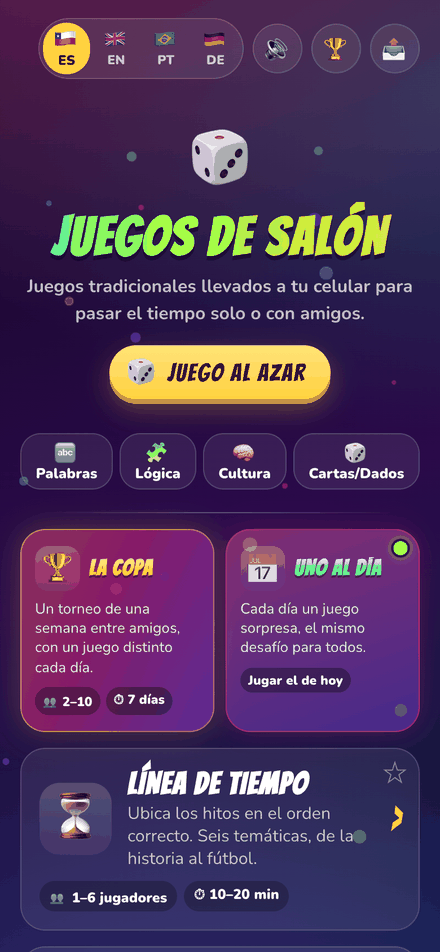
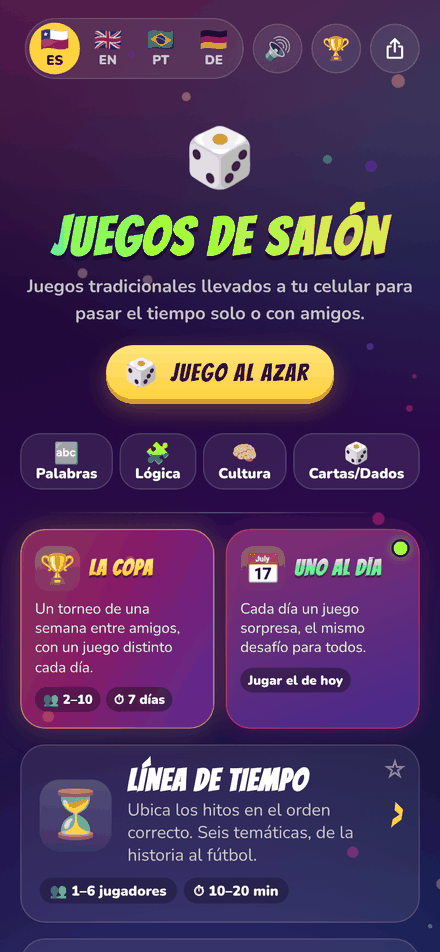
El botón de compartir de la portada usa el ícono de los sistemas operativos (D-242)
El 📤 de la barra de arriba pasa a ser un SVG: una caja abierta con una
flecha hacia arriba, del color del texto. El ✅ al copiar no cambia.

Claude-Session: https://claude.ai/code/session_016Wu82xwHRsD5DmT6RXtR3u

diff --git a/public/assets/js/ui.js b/public/assets/js/ui.js
@@ -117,21 +117,28 @@ export function confetti({ duration = 2500, count = 160 } = {}) {
 export { canShare, shareLink };
 
 /**
- * Botón redondo de la barra de arriba para compartir un link (📤). Donde hay diálogo nativo
+ * El ícono de compartir de los sistemas operativos (una caja abierta con una flecha hacia arriba),
+ * dibujado en SVG con el color del texto: un emoji se ve distinto en cada celular (D-242).
+ */
+const ICONO_COMPARTIR = '<svg class="icon-share" viewBox="0 0 24 24" width="22" height="22" fill="none" stroke="currentColor" stroke-width="2" stroke-linecap="round" stroke-linejoin="round" aria-hidden="true"><path d="M12 3v12"/><path d="M8 7l4-4 4 4"/><path d="M8 10H6a1 1 0 0 0-1 1v9a1 1 0 0 0 1 1h12a1 1 0 0 0 1-1v-9a1 1 0 0 0-1-1h-2"/></svg>';
+
+/**
+ * Botón redondo de la barra de arriba para compartir un link. Donde hay diálogo nativo
  * abre el del sistema; donde no, copia y lo avisa cambiando el ícono por un ✅ dos segundos,
  * que se entiende sin traducir y no mueve nada de lugar en la barra. Con `imagen` (una función
  * que da el archivo, o `null`), donde el celular manda archivos va la imagen junto al texto
  * (D-226); en un computador no se descarga nada: se copia el texto, como siempre.
  */
 export function shareButton({ title, text, url, label, imagen }) {
-  const btn = el('button', { type: 'button', class: 'icon-btn', title: label, 'aria-label': label }, '📤');
+  const btn = el('button', { type: 'button', class: 'icon-btn', title: label, 'aria-label': label });
+  btn.innerHTML = ICONO_COMPARTIR;
   btn.addEventListener('click', async () => {
     if (btn.textContent === '✅') return;
     const archivo = imagen && comparteArchivos() ? await imagen() : null;
     const r = archivo ? await compartir({ titulo: title, texto: text, url, imagen: archivo }) : await shareLink({ title, text, url });
     if (r !== 'copied') return;
     btn.textContent = '✅';
-    setTimeout(() => { btn.textContent = '📤'; }, 2000);
+    setTimeout(() => { btn.innerHTML = ICONO_COMPARTIR; }, 2000);
   });
   return btn;
 }

diff --git a/public/assets/js/compartir.js b/public/assets/js/compartir.js
@@ -13,7 +13,7 @@
  *   imagen no trae (quién falta, las medallas, el reto) y el link.
  * - **Una invitación** (a una sala, a una copa) va sin imagen dibujada: el link ya trae su tarjeta
  *   social (D-72), que es la imagen que WhatsApp muestra.
- * - **La app** (el 📤 de la portada, D-226) va con esa misma tarjeta social, la de su idioma, como
+ * - **La app** (el botón de compartir de la portada, D-226, D-242) va con esa misma tarjeta social, la de su idioma, como
  *   imagen: pegada al texto, el link ya no la muestra. El texto cuenta lo que ella no dice.
  *
  * Donde no se puede compartir un archivo (un computador), la imagen se descarga y el texto queda

diff --git a/docs/DECISIONES.md b/docs/DECISIONES.md
@@ -63,7 +63,7 @@ que siguen explicando algo; las reemplazadas y derogadas quedan fuera.
 | Memoria de partida | C-6 | D-25, D-150 |
 | Interfaz táctil | C-8 | D-38, D-52, D-77, D-85, D-86, D-87, D-90, D-92, D-163, D-213 |
 | Errores y pase del celular | C-8b, C-9, C-14 | D-36, D-40, D-56, D-60, D-123, D-213 |
-| Compartir | C-7 | D-72, D-162, D-165, D-171, D-173, D-181, D-226 |
+| Compartir | C-7 | D-72, D-162, D-165, D-171, D-173, D-181, D-226, D-242 |
 | Panel y señales de uso (privacidad) | C-16 | D-44, D-45, D-46, D-73, D-79, D-80, D-140, D-207, D-208, D-209, D-210, D-211 |
 | Publicar y versión | C-11 | D-22, D-122, D-189, D-192, D-205, D-213, D-216, D-218 |
 | README y capturas | C-13 | D-51, D-76, D-78, D-213 |
@@ -4161,4 +4161,20 @@ nombre (en inglés, desde 375). A 320 px solo cabe en inglés. Los celulares de 
   al bajar (D-196) y juntaba un botón que hace algo con uno que filtra.
 **Consecuencias:** `tools/e2e/favoritos.mjs` mira dónde va a 320, 390 y 900 px en los cuatro
 idiomas, que la fila de tipos siga en una línea y que nada se salga.
+
+## D-242 · El botón de compartir de la portada usa el ícono de los sistemas operativos
+**Fecha:** 2026-10-06 · **Estado:** vigente · **Relación:** completa D-226 (el botón que comparte la app)
+**Decisión:** El botón redondo de compartir de la barra de arriba (`shareButton` en
+`public/assets/js/ui.js`, que hoy usa solo la portada) deja el emoji 📤 y muestra el ícono de
+compartir de los sistemas operativos: una caja abierta con una flecha hacia arriba, dibujada en SVG
+con `currentColor`. Al copiar, el ✅ de dos segundos sigue igual.
+**Por qué:** lo pidió el dueño. El 📤 se dibuja distinto en cada celular y en Android parece una
+bandeja de salida, no "compartir"; la flecha que sale de la caja es la que la gente ya reconoce.
+**Alternativas descartadas:**
+- **Los tres puntos unidos de Android:** en un iPhone no se lee como compartir, y la flecha sí se
+  entiende en los dos.
+- **Cambiar también el 📤 de los botones con texto** ("📤 Compartir link"): ahí el texto ya dice la
+  acción y el emoji al inicio sigue U-2; el pedido era el botón redondo, que no tiene texto.
+**Consecuencias:** el 📤 queda en los botones con texto de los juegos y de La Copa.
+`tools/e2e/compartir-portada.mjs` sigue mirando que el botón diga ✅ al copiar.
 

diff --git a/tools/e2e/README.md b/tools/e2e/README.md
@@ -115,7 +115,7 @@ node tools/e2e/contacto.mjs cuarto-rey --salida /tmp/contacto
 | `uno-al-dia-grupo.mjs` | Uno al día con El Ahorcado, Batalla Naval y Dudo (D-230): con el reloj fijo en un día en que toca cada uno, que `?hoy` abra directo el modo para uno, la línea de la intro, que la palabra, la flota del celular y los dados salgan de la semilla del día, el puntaje de su fórmula, la tarjeta arriba de los botones del juego, sin revancha (#226), el segundo intento como práctica, un link de otro juego que se va al de hoy, `/today/` y el dado que nombra a los de grupo |
 | `compartir-sala.mjs` | Botón de compartir: diálogo nativo si existe, copiar si no |
 | `favoritos.mjs` | Los favoritos de la portada (D-238, D-241): la ⭐ se toca con el dedo y marca sin abrir el juego, la ficha ⭐ Favoritos sale con el primero y deja ver solo esos (y va en la URL), desmarcar ahí no saca la tarjeta de la vista, se recuerdan al recargar, `?type=favorites` sin favoritos muestra todos, y dónde va ⭐ Favoritos (D-241): primera en la fila de tipos a 390 px y en un computador, y a 320 px donde quepa (en su línea si no), siempre con los tipos en una fila y sin salirse, en los cuatro idiomas |
-| `compartir-portada.mjs` | El 📤 de la portada (D-226), en los cuatro idiomas: la tarjeta social del idioma como imagen, el texto con su cabecera y el link a la portada de ese idioma; en un computador, solo el texto copiado y nada descargado |
+| `compartir-portada.mjs` | El botón de compartir de la portada (D-226, D-242), en los cuatro idiomas: la tarjeta social del idioma como imagen, el texto con su cabecera y el link a la portada de ese idioma; en un computador, solo el texto copiado y nada descargado |
 | `enlace-invitacion.mjs` | Quien llega por un enlace solo puede unirse a esa sala, en los cuatro juegos con sala |
 | `sala-error.mjs` | Sin llegar a Firebase: el mensaje de cada juego con sala, Toque y Fama en cada idioma y los demás repartidos entre ellos |
 | `idioma-por-url.mjs` | El idioma que viene en el link, en cada idioma: `?lang=`, las puertas (`/en/`, `/pt/`, `/de/`), el puente `/labs/de/` y las invitaciones a sala y a copa |

diff --git a/docs/CANONES.md b/docs/CANONES.md
@@ -384,8 +384,9 @@ de dónde viene. Lo que cambie la portada se cambia aquí, en el mismo PR.
   sin abrir el juego, como la ⭐, va al lado del link, encima de la tarjeta (`.game-slot`), con
   44 px de toque y sin tapar texto (C-8, D-238).
 - **La barra de arriba** lleva el idioma (C-3), el sonido (C-4), 🏆 rankings (D-212, abiertos
-  a todos desde D-217) y 📤, que comparte la app con su tarjeta social en el idioma en que se
-  mira (`compartirApp`, D-226, U-33).
+  a todos desde D-217) y compartir, que comparte la app con su tarjeta social en el idioma en que se
+  mira (`compartirApp`, D-226, U-33). Su ícono es el de compartir de los sistemas operativos, una
+  caja abierta con una flecha hacia arriba, en SVG y del color del texto, no un emoji (D-242).
   El globo que invita a agregar la app a inicio sale abajo, solo en los celulares donde se puede
   agregar (no en el computador ni en la app ya instalada), y la ✕ lo apaga para siempre en ese
   navegador (D-232).

diff --git a/README.md b/README.md
@@ -391,7 +391,8 @@ Spec and design: [docs/games/cup.md](docs/games/cup.md)
 
 - **Languages:** Spanish (default), English, Brazilian Portuguese and German. The menu toggle saves the choice on the device, and the browser language is never used to guess (D-47, D-48). See [Languages](#languages).
 - **Sound:** effects synthesized with Web Audio, no audio files. A 🔊/🔇 button on every screen.
-- **Sharing the app:** a 📤 button next to the language and sound ones on the menu. On a phone it
+- **Sharing the app:** a share button next to the language and sound ones on the menu, drawn with
+  the system share icon (a box with an arrow pointing up, D-242). On a phone it
   opens the share sheet with the menu's social card **as an image** and a short text — a header with
   how many games there are, one line each for The Cup, playing in a group, playing alone and needing
   no account — ending with the link to the front door of the language you are reading in: `/`,

diff --git a/CHANGELOG.md b/CHANGELOG.md
@@ -1,5 +1,9 @@
 # Changelog
 
+## 0.125.0 — 2026-10-06
+- **El botón de compartir, con el ícono de siempre** (D-242): arriba a la derecha de la portada, el
+  📤 pasa a ser la flecha que sale de una caja, la de compartir del celular, y se ve igual en todos.
+
 ## 0.124.0 — 2026-10-06
 - **⭐ Favoritos, en la misma fila que los tipos** (D-241): la ficha va primera, junto a Palabras,
   Lógica, Cultura y Cartas/Dados, así los filtros ocupan una línea menos. En los celulares más
